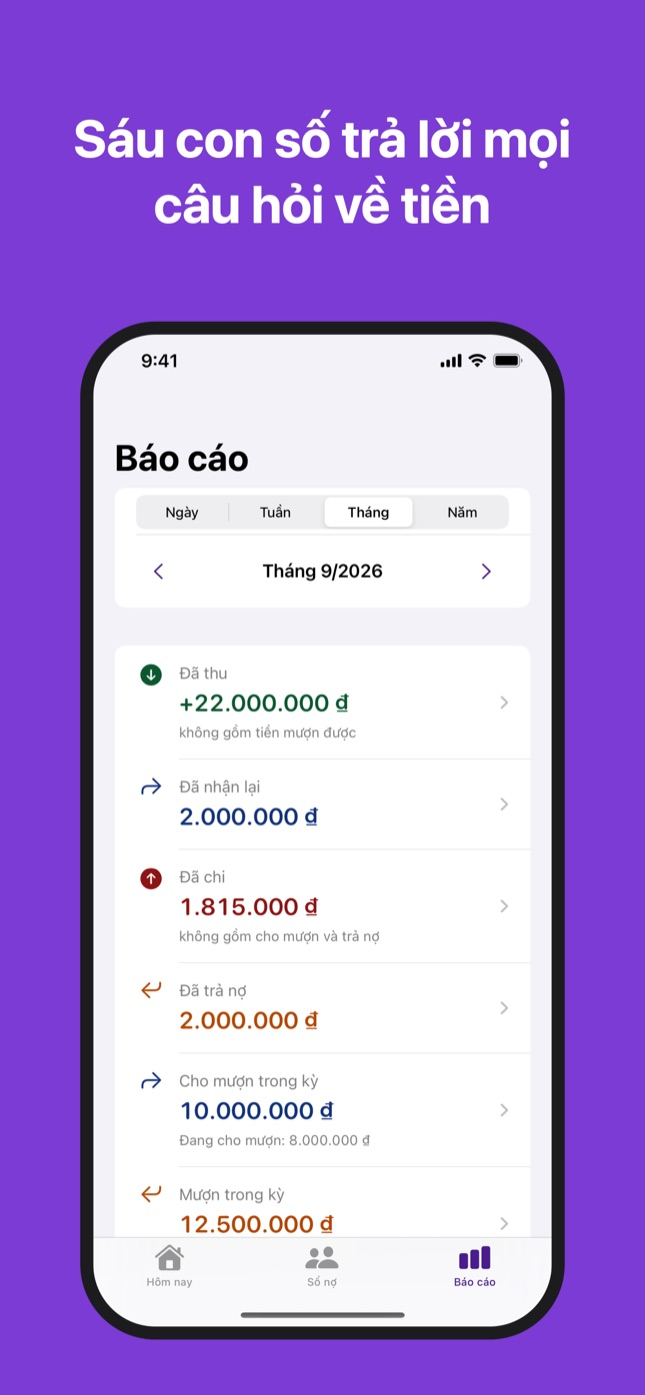
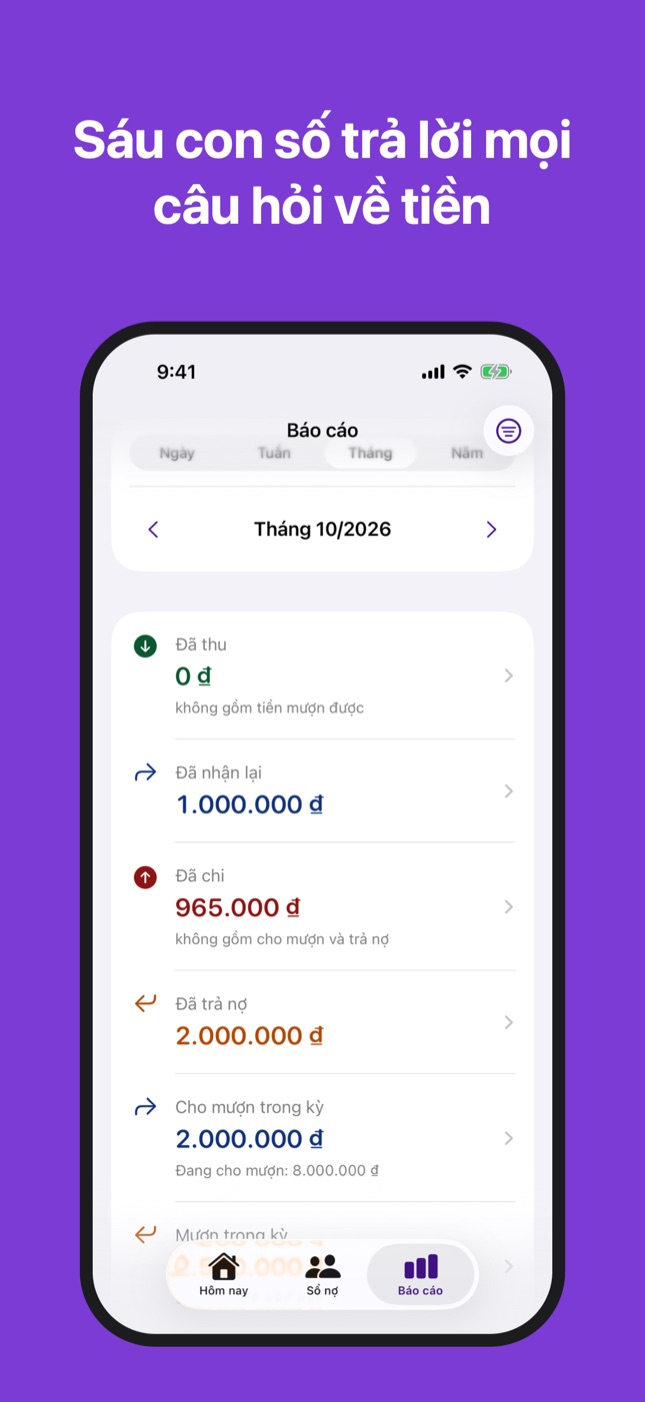
Website for 1.4.0: privacy page said the app never uses the internet
Since 1.3.1 the app can back the book up to the user's own iCloud. The privacy
page (Vietnamese and English), the FAQ and the feature list now say exactly that:
only when the user turns it on, kept by Apple, not readable by the developer, can
be turned off and deleted in the app. Backup wording follows the app: Sao lưu /
Khôi phục. Pictures are the 1.4.0 set.

diff --git a/docs/privacy.html b/docs/privacy.html
@@ -23,27 +23,39 @@
 <main>
   <section lang="vi">
     <h1>Chính sách quyền riêng tư</h1>
-    <p class="updated">Cập nhật lần cuối: 15/09/2026</p>
+    <p class="updated">Cập nhật lần cuối: 10/10/2026</p>
 
     <p class="summary"><strong>Sổ Tay Tiền không thu thập bất kỳ dữ liệu nào của bạn.</strong></p>
 
     <h2>Dữ liệu của bạn nằm ở đâu</h2>
     <ul>
       <li>Mọi giao dịch, khoản nợ và tên người bạn ghi đều lưu trên chính thiết bị của bạn.</li>
-      <li>App không có máy chủ. App không kết nối internet và không gửi dữ liệu đi đâu cả.</li>
+      <li>App không có máy chủ và không có tài khoản.</li>
       <li>Nhà phát triển không nhìn thấy, không nhận được và không lưu trữ bất kỳ dữ liệu nào của bạn.</li>
+    </ul>
+
+    <h2>Sao lưu iCloud — lần duy nhất app kết nối internet</h2>
+    <ul>
+      <li>App kết nối internet <strong>chỉ để</strong> sao lưu sổ vào <strong>iCloud riêng của bạn</strong>, và chỉ khi bạn bật Tự động sao lưu vào iCloud (Thiết lập → Sao lưu &amp; Khôi phục). Mặc định là tắt.</li>
+      <li>Bản sao nằm trong tài khoản iCloud của bạn, do <strong>Apple</strong> quản lý theo chính sách của Apple.</li>
+      <li><strong>Nhà phát triển vẫn không đọc được</strong> dữ liệu của bạn: đây là iCloud riêng tư của bạn, không phải máy chủ của app.</li>
+      <li>Khi sổ còn trống — như trên máy mới cài — app xem iCloud của bạn có bản sao nào để khôi phục không. Việc này chỉ đọc, không gửi gì đi.</li>
+      <li>Bạn tắt được bất cứ lúc nào; tắt rồi thì app trở lại hoàn toàn ngoại tuyến.</li>
+      <li>Bạn xoá mọi bản sao trên iCloud ngay trong app: Thiết lập → Sao lưu &amp; Khôi phục → Khôi phục từ iCloud → Xoá mọi bản sao trên iCloud.</li>
+      <li>Hình nền bạn chọn không nằm trong bản sao.</li>
     </ul>
 
     <h2>Khi nào dữ liệu rời khỏi máy</h2>
     <ul>
-      <li>Chỉ khi <strong>bạn chủ động</strong> bấm Xuất dữ liệu trong Thiết lập và tự chọn nơi gửi tệp CSV hoặc JSON.</li>
+      <li>Khi bạn bật sao lưu iCloud, như mô tả ở trên.</li>
+      <li>Khi <strong>bạn chủ động</strong> chọn Sao lưu ra tệp trong Thiết lập → Sao lưu &amp; Khôi phục và tự chọn nơi gửi tệp CSV hoặc JSON.</li>
       <li>Nếu bạn bật sao lưu iPhone (iCloud hoặc máy tính), dữ liệu của app có thể nằm trong bản sao lưu đó. Bản sao lưu do Apple quản lý theo chính sách của Apple, không phải của app.</li>
-      <li>Các liên kết trong màn Giới thiệu và Ủng hộ tác giả chỉ mở trình duyệt khi bạn chạm vào. App không gửi kèm dữ liệu nào.</li>
+      <li>Các liên kết trong màn Giới thiệu chỉ mở trình duyệt khi bạn chạm vào. App không gửi kèm dữ liệu nào.</li>
     </ul>
 
     <h2>Xoá dữ liệu</h2>
     <ul>
-      <li>Xoá app là xoá toàn bộ dữ liệu của app trên máy.</li>
+      <li>Xoá app là xoá toàn bộ dữ liệu của app trên máy. Các bản sao trên iCloud (nếu bạn đã bật) không tự mất: xoá chúng trong app trước, như ở trên.</li>
       <li>Muốn xoá sổ mà vẫn giữ app: Thiết lập → Đặt lại ứng dụng → Xoá toàn bộ sổ → Xoá vĩnh viễn.</li>
     </ul>
 
@@ -51,7 +63,7 @@
     <ul>
       <li>Không quảng cáo.</li>
       <li>Không phân tích hành vi, không theo dõi.</li>
-      <li>Không có bên thứ ba nào nhận dữ liệu.</li>
+      <li>Không có bên thứ ba nào nhận dữ liệu. Bản sao iCloud nằm trong tài khoản của chính bạn tại Apple.</li>
       <li>Không tài khoản, không đăng nhập.</li>
     </ul>
 
@@ -61,27 +73,39 @@
 
   <section lang="en" id="en">
     <h1>Privacy Policy</h1>
-    <p class="updated">Last updated: 2026-09-15</p>
+    <p class="updated">Last updated: 2026-10-10</p>
 
     <p class="summary"><strong>Sổ Tay Tiền does not collect any of your data.</strong></p>
 
     <h2>Where your data is</h2>
     <ul>
       <li>Every transaction, debt and name you record is stored on your own device.</li>
-      <li>The app has no server. It does not connect to the internet and sends data nowhere.</li>
+      <li>The app has no server and no accounts.</li>
       <li>The developer cannot see, does not receive and does not store any of your data.</li>
+    </ul>
+
+    <h2>iCloud backup — the only time the app uses the internet</h2>
+    <ul>
+      <li>The app connects to the internet <strong>only</strong> to back up your book to <strong>your own iCloud</strong>, and only if you turn on automatic iCloud backup (Settings → Sao lưu &amp; Khôi phục, "Backup &amp; Restore"). It is off by default.</li>
+      <li>The copies are kept in your iCloud account, which <strong>Apple</strong> manages under Apple's policies.</li>
+      <li><strong>The developer still cannot read</strong> your data: this is your private iCloud, not a server of the app.</li>
+      <li>While the book is still empty — as on a newly installed phone — the app looks in your iCloud for a copy to restore. This only reads; nothing is sent.</li>
+      <li>You can turn it off at any time; once it is off the app is fully offline again.</li>
+      <li>You can delete every copy in iCloud from inside the app: Settings → Sao lưu &amp; Khôi phục → Khôi phục từ iCloud → Xoá mọi bản sao trên iCloud ("Delete every copy in iCloud").</li>
+      <li>The wallpaper you choose is not part of a copy.</li>
     </ul>
 
     <h2>When data leaves your device</h2>
     <ul>
-      <li>Only when <strong>you</strong> tap Export data (Xuất dữ liệu) in Settings and choose where to send the CSV or JSON file yourself.</li>
+      <li>When you turn on iCloud backup, as described above.</li>
+      <li>When <strong>you</strong> choose Back up to a file (Sao lưu ra tệp) in Settings → Sao lưu &amp; Khôi phục and pick where to send the CSV or JSON file yourself.</li>
       <li>If you back up your iPhone (iCloud or a computer), the app's data may be included in that backup. Backups are handled by Apple under Apple's policies, not the app's.</li>
-      <li>The links on the About and Support the developer screens only open your browser when you tap them. The app sends no data with them.</li>
+      <li>The links on the About screen only open your browser when you tap them. The app sends no data with them.</li>
     </ul>
 
     <h2>Deleting your data</h2>
     <ul>
-      <li>Deleting the app deletes all of the app's data on the device.</li>
+      <li>Deleting the app deletes all of the app's data on the device. Copies in iCloud (if you turned the backup on) are not removed with it: delete them in the app first, as above.</li>
       <li>To erase the book but keep the app: Settings → Reset app → Erase the whole book → Erase permanently.</li>
     </ul>
 
@@ -89,7 +113,7 @@
     <ul>
       <li>No advertising.</li>
       <li>No analytics, no tracking.</li>
-      <li>No third parties receive any data.</li>
+      <li>No third parties receive any data. iCloud copies are in your own account with Apple.</li>
       <li>No account, no sign-in.</li>
     </ul>
 
@@ -98,7 +122,7 @@
   </section>
 </main>
 <footer>
-  <p>Cập nhật lần cuối / Last updated: 15/09/2026 (2026-09-15) · © 2026 Dương Long Hồ</p>
+  <p>Cập nhật lần cuối / Last updated: 10/10/2026 (2026-10-10) · © 2026 Dương Long Hồ</p>
 </footer>
 </body>
 </html>

diff --git a/docs/support.html b/docs/support.html
@@ -20,7 +20,7 @@
 </header>
 <main>
   <h1>Hỗ trợ</h1>
-  <p class="updated">Cập nhật lần cuối: 15/09/2026</p>
+  <p class="updated">Cập nhật lần cuối: 10/10/2026</p>
 
   <div class="summary">
     <p><strong>Liên hệ:</strong> <a href="mailto:lotuslongho@gmail.com">lotuslongho@gmail.com</a></p>
@@ -33,11 +33,11 @@
   <h2>Hỏi đáp</h2>
   <details>
     <summary>Dữ liệu của tôi có an toàn không?</summary>
-    <p>Dữ liệu chỉ nằm trên iPhone của bạn: app không có máy chủ, không kết nối internet, không gửi gì đi. Nó được bảo vệ bởi chính mã khoá iPhone của bạn. Bản 1.0 chưa có khoá riêng trong app, nên hãy đặt mã khoá cho iPhone.</p>
+    <p>Sổ nằm trên iPhone của bạn: app không có máy chủ và không có tài khoản. Nếu bạn bật sao lưu iCloud, một bản sao nằm trong iCloud riêng của bạn, do Apple giữ; nhà phát triển không đọc được. Không bật thì app không kết nối internet. Sổ trên máy được bảo vệ bởi chính mã khoá iPhone của bạn; app chưa có khoá riêng, nên hãy đặt mã khoá cho iPhone.</p>
   </details>
   <details>
     <summary>Tôi đổi điện thoại thì sao?</summary>
-    <p>Nếu bạn sao lưu iPhone cũ (iCloud hoặc máy tính) rồi khôi phục bản sao lưu đó lên máy mới, sổ của bạn đi theo. Bạn cũng nên xuất sổ ra tệp CSV hoặc JSON để giữ một bản riêng. Bản 1.0 chưa nhập lại được tệp đã xuất.</p>
+    <p>Trên máy cũ: Thiết lập → Sao lưu &amp; Khôi phục → Sao lưu lên iCloud, bật Tự động sao lưu vào iCloud. Trên máy mới, đăng nhập cùng tài khoản iCloud rồi cài app: màn Hôm nay hiện "Tìm thấy bản sao trên iCloud" — chạm Khôi phục, sổ về nguyên vẹn. Không dùng iCloud? Chọn Sao lưu ra tệp trên máy cũ, gửi tệp JSON sang máy mới, rồi Khôi phục từ tệp.</p>
   </details>
   <details>
     <summary>Làm sao ghi khoản nợ trả dần?</summary>
@@ -48,12 +48,12 @@
     <p>Cho An mượn 3 triệu, bạn không nghèo đi 3 triệu — bạn đổi tiền mặt lấy một khoản An nợ bạn. Tương tự, tiền đi mượn không phải thu nhập vì bạn phải trả lại. Nếu tính gộp, con số "tháng này tôi tiêu bao nhiêu" sẽ sai. Tiền cho mượn vẫn làm giảm Số dư tiền mặt, và hiện ở dòng Đang cho mượn.</p>
   </details>
   <details>
-    <summary>Làm sao xuất dữ liệu?</summary>
-    <p>Ở màn Hôm nay, chạm biểu tượng bánh răng để mở Thiết lập, chọn <strong>Xuất dữ liệu</strong>, rồi chạm Chia sẻ tệp CSV (mở bằng Excel, Google Sheets) hoặc Chia sẻ tệp JSON. Bạn tự chọn nơi gửi tệp.</p>
+    <summary>Làm sao sao lưu và khôi phục sổ?</summary>
+    <p>Ở màn Hôm nay, chạm biểu tượng bánh răng để mở Thiết lập, chọn <strong>Sao lưu &amp; Khôi phục</strong>. Có hai đường. <strong>iCloud</strong>: tự động, vào iCloud riêng của bạn; app giữ 5 bản gần nhất. <strong>Tệp</strong>: Sao lưu ra tệp tạo tệp JSON (khôi phục được trọn vẹn) và CSV (mở bằng Excel, Google Sheets), bạn tự chọn nơi gửi; Khôi phục từ tệp luôn cho xem trước và hoàn tác được.</p>
   </details>
 </main>
 <footer>
-  <p>Cập nhật lần cuối: 15/09/2026 · © 2026 Dương Long Hồ ·
+  <p>Cập nhật lần cuối: 10/10/2026 · © 2026 Dương Long Hồ ·
     <a href="./">Trang chủ</a> · <a href="privacy.html">Quyền riêng tư</a> · <a href="terms.html">Điều khoản</a></p>
 </footer>
 </body>

diff --git a/docs/index.html b/docs/index.html
@@ -30,9 +30,9 @@
   </section>
 
   <section class="shots" aria-label="Ảnh màn hình">
-    <img src="assets/shot-01.jpg" alt="Ảnh màn hình ứng dụng 1" width="645" height="1395" loading="lazy">
-    <img src="assets/shot-02.jpg" alt="Ảnh màn hình ứng dụng 2" width="645" height="1395" loading="lazy">
-    <img src="assets/shot-03.jpg" alt="Ảnh màn hình ứng dụng 3" width="645" height="1395" loading="lazy">
+    <img src="assets/shot-01.jpg" alt="Ảnh màn hình ứng dụng 1" width="645" height="1402" loading="lazy">
+    <img src="assets/shot-02.jpg" alt="Ảnh màn hình ứng dụng 2" width="645" height="1402" loading="lazy">
+    <img src="assets/shot-03.jpg" alt="Ảnh màn hình ứng dụng 3" width="645" height="1402" loading="lazy">
   </section>
 
   <section class="features" aria-label="Tính năng">
@@ -77,17 +77,29 @@
       <p>Đang cho mượn bao nhiêu, đang nợ bao nhiêu — nhìn ngay trên màn hình chính, không cần mở app. Chạm vào để mở Sổ nợ.</p>
     </div>
     <div class="card">
-      <h2>Dữ liệu nằm trên máy bạn</h2>
-      <p>Không tài khoản, không quảng cáo, không kết nối internet. Xuất toàn bộ sổ ra CSV hoặc JSON bất cứ lúc nào.</p>
+      <h2>Sao lưu &amp; Khôi phục</h2>
+      <p>Sao lưu tự động vào iCloud riêng của bạn — đổi điện thoại thì khôi phục lại nguyên vẹn. Hoặc sao lưu ra tệp CSV, JSON. Nhà phát triển không đọc được dữ liệu của bạn.</p>
     </div>
     <div class="card">
-      <h2>Sáng và tối</h2>
-      <p>Giao diện theo chế độ sáng hoặc tối của iPhone, hoặc chọn riêng trong Thiết lập.</p>
+      <h2>Dữ liệu là của bạn</h2>
+      <p>Không tài khoản, không quảng cáo, không theo dõi. Không bật sao lưu iCloud thì app chạy hoàn toàn ngoại tuyến.</p>
+    </div>
+    <div class="card">
+      <h2>Nhóm: tiền đi vào việc gì</h2>
+      <p>Tự đặt nhóm cho tiền vào và tiền ra. Báo cáo lọc được theo ví, theo nhóm, hoặc cả hai.</p>
+    </div>
+    <div class="card">
+      <h2>Phím 000</h2>
+      <p>Bàn phím số của app có phím 000 — gõ tiền triệu nhanh hơn, và số luôn được tách hàng nghìn.</p>
+    </div>
+    <div class="card">
+      <h2>Sáng, tối và hình nền riêng</h2>
+      <p>Giao diện theo chế độ sáng hoặc tối của iPhone, hoặc chọn riêng trong Thiết lập. Đặt hình nền của bạn; số tiền vẫn luôn đọc rõ.</p>
     </div>
   </section>
 </main>
 <footer>
-  <p>Cập nhật lần cuối: 15/09/2026 · © 2026 Dương Long Hồ ·
+  <p>Cập nhật lần cuối: 10/10/2026 · © 2026 Dương Long Hồ ·
     <a href="support.html">Hỗ trợ</a> · <a href="privacy.html">Quyền riêng tư</a> · <a href="terms.html">Điều khoản</a></p>
 </footer>
 </body>

diff --git a/docs/terms.html b/docs/terms.html
@@ -19,7 +19,7 @@
 </header>
 <main>
   <h1>Điều khoản sử dụng</h1>
-  <p class="updated">Cập nhật lần cuối: 15/09/2026</p>
+  <p class="updated">Cập nhật lần cuối: 10/10/2026</p>
 
   <h2>Ứng dụng này là gì</h2>
   <p>Sổ Tay Tiền là cuốn sổ giúp bạn tự theo dõi tiền của mình. Mọi con số được tính từ đúng những gì bạn nhập vào.</p>
@@ -28,16 +28,16 @@
   <p>Ứng dụng được cung cấp nguyên trạng. Nó không phải lời khuyên tài chính, pháp lý hay thuế, và không thay thế giấy tờ vay mượn có giá trị pháp lý.</p>
 
   <h2>Dữ liệu là của bạn</h2>
-  <p>Dữ liệu chỉ nằm trên thiết bị của bạn, nên bạn tự chịu trách nhiệm giữ nó: sao lưu iPhone hoặc xuất sổ ra tệp. Nhà phát triển không có bản sao nào và không khôi phục được dữ liệu đã mất. Xem thêm <a href="privacy.html">Chính sách quyền riêng tư</a>.</p>
+  <p>Dữ liệu chỉ nằm trên thiết bị của bạn, nên bạn tự chịu trách nhiệm giữ nó: bật sao lưu iCloud hoặc sao lưu sổ ra tệp. Nhà phát triển không có bản sao nào và không khôi phục được dữ liệu đã mất. Xem thêm <a href="privacy.html">Chính sách quyền riêng tư</a>.</p>
 
   <h2>Miễn phí</h2>
-  <p>Ứng dụng không bán gì bên trong. Màn Ủng hộ tác giả chỉ có liên kết mở ra ngoài; ủng hộ hay không cũng không mở hay khoá tính năng nào.</p>
+  <p>Ứng dụng không bán gì bên trong và không có cách chuyển tiền nào.</p>
 
   <h2>Liên hệ</h2>
   <p><a href="mailto:lotuslongho@gmail.com">lotuslongho@gmail.com</a></p>
 </main>
 <footer>
-  <p>Cập nhật lần cuối: 15/09/2026 · © 2026 Dương Long Hồ ·
+  <p>Cập nhật lần cuối: 10/10/2026 · © 2026 Dương Long Hồ ·
     <a href="./">Trang chủ</a> · <a href="support.html">Hỗ trợ</a> · <a href="privacy.html">Quyền riêng tư</a></p>
 </footer>
 </body>
